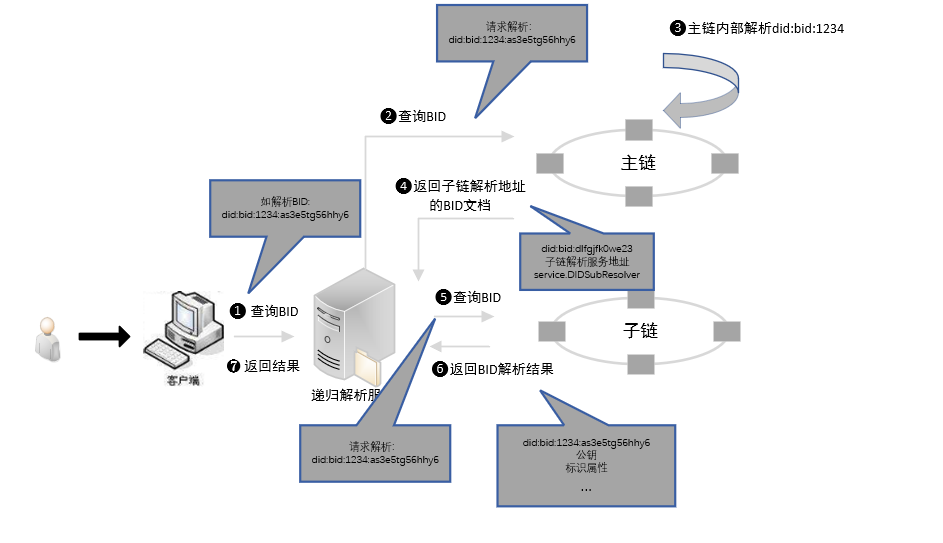
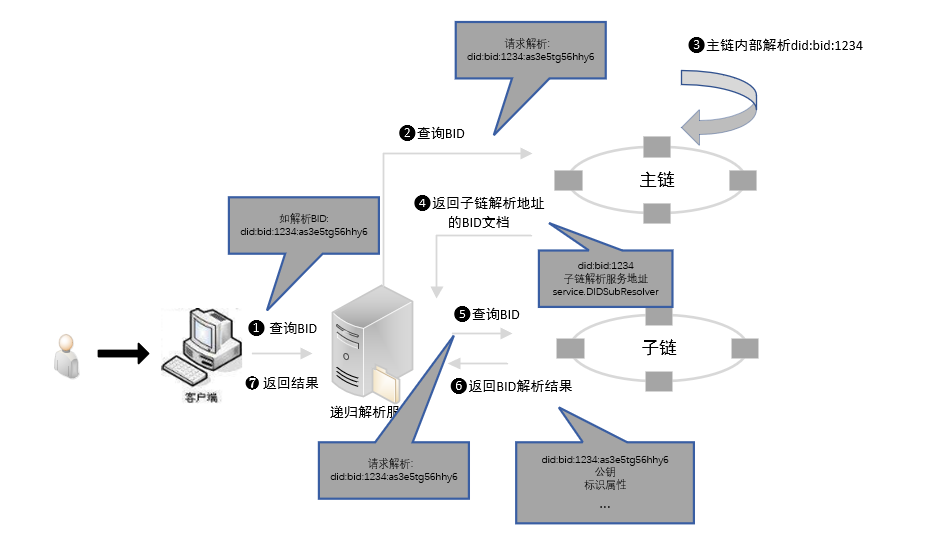
[mod] mod file

Changed region(s): [[0.031, 0.0, 0.9315, 0.9724]]

diff --git a/source/doc/星火·链网BID协议.md b/source/doc/星火·链网BID协议.md
@@ -21,7 +21,6 @@
   suffix = (22,42)(ALPHA / DIGIT);长度范围22-42的字母或数字组合 
 ```
 
-
 ##     2.2 架构
 
 <img src="../_static/images/图片2.png" style="zoom: 50%;" />
@@ -297,13 +296,9 @@ Document的互操作，必须包含https://www.w3.org/ns/did/v1。
 				"type": 206
 			},
 			"service": [{
-				"id": "did:bid:ef24NBA7au48UTZrUNRHj2p3bnRzF3YCH#subResolve",
-				"type": "DIDSubResolve",
-				"version": "1.0.0",
-				"serverType": 1,
-				"protocol": 3,
-				"serviceEndpoint": "192.168.1.23",
-				"port": 8080
+				  "id": "did:bid:ef24NBA7au48UTZrUNRHj2p3bnRzF3YCH#storage",
+                  "type": "DIDStorage",
+                  "serviceEndpoint": "https://did.bif.com"
 			}],
 			"created": "2021-05-10T06:23:38Z",
 			"updated": "2021-05-10T06:23:38Z",
@@ -394,7 +389,7 @@ Document的互操作，必须包含https://www.w3.org/ns/did/v1。
 				"https://www.w3.org/ns/did/v1"
 			],
 			"version": "1.0.0",
-			"id": "did:bid:efnVUgqQFfYeu97ABf6sGm3WFtVXHZB2",
+			"id": "did:bid:1234",
 			"publicKey": [{
 				"id": "did:bid:efnVUgqQFfYeu97ABf6sGm3WFtVXHZB2#key-1",
 				"type": "Ed25519",
@@ -416,7 +411,7 @@ Document的互操作，必须包含https://www.w3.org/ns/did/v1。
 				"type": 206
 			},
 			"service": [{
-				"id": "did:bid:ef24NBA7au48UTZrUNRHj2p3bnRzF3YCH#subResolve",
+				"id": "did:bid:1234#subResolve",
 				"type": "DIDSubResolve",
 				"version": "1.0.0",
 				"serverType": 1,
@@ -425,7 +420,7 @@ Document的互操作，必须包含https://www.w3.org/ns/did/v1。
 				"port": 8080
 			}],
 			"proof": {
-				"creator": "did:bid:efJgt44mNDewKK1VEN454R17cjso3mSG#key-1",
+				"creator": "did:bid:efnVUgqQFfYeu97ABf6sGm3WFtVXHZB2#key-1",
 				"signatureValue": " eyJhbGciOiJSUzI1NiIsImI2NCI6ZmFsc2UsImNyaXQiOlsiYjY0Il19"
 			}
 		}
@@ -814,9 +809,9 @@ Document的互操作，必须包含https://www.w3.org/ns/did/v1。
     "message": "success",
     "data": {
         "version": "1.0.0",
-        "id": "did:bid:efnVUgqQFfYeu97ABf6sGm3WFtVXHZB2",
+        "id": "did:bid:1234",
         "service": {
-            "id": "did:bid:ef24NBA7au48UTZrUNRHj2p3bnRzF3YCH#subresolve",
+            "id": "did:bid:1234#subresolve",
             "type": "DIDSubResolve",
             "version": "1.0.0",
             "serverType": 1,
